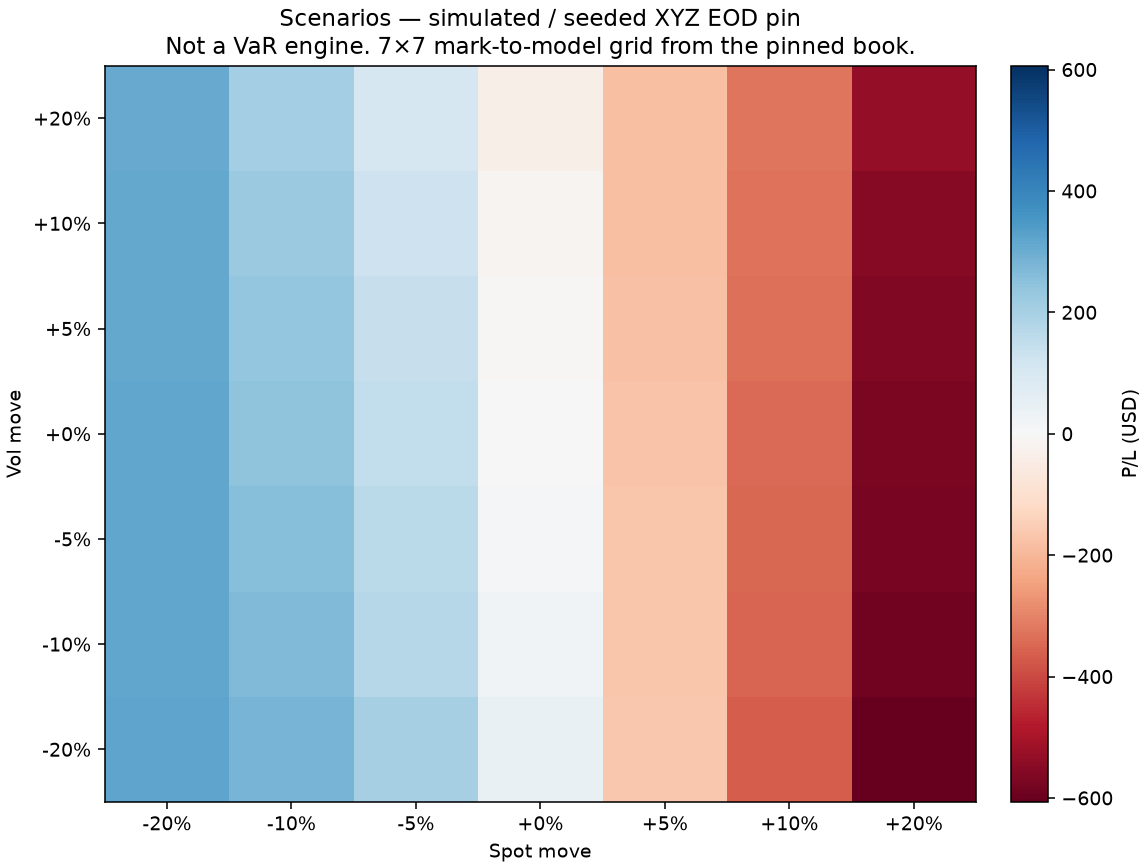
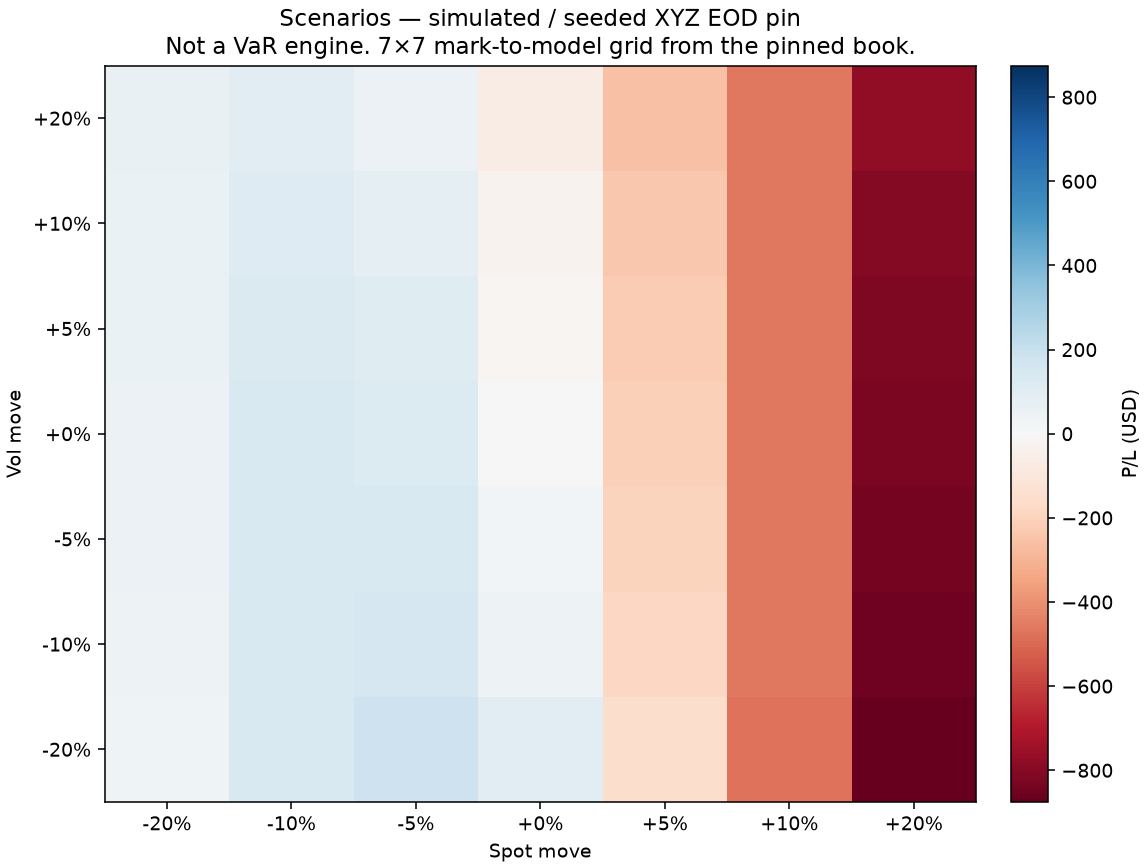
Grow the seeded demo to a 25-day multi-leg book
The demo was a five-day, two-leg call spread, so the seeded TWR path
and Streamlit screenshots reflected a single opening mark. It is now a
twenty-five-day book: the short 100/110 call vertical plus a long
95/105/115 call butterfly (five legs). simulate/demo.py needed no
change -- it reads n_days and legs from the fixture -- so this is a
fixture and downstream update only.

The seeded TWR (0.06% / -0.14% drawdown, no recovery in window) is
re-pinned in the CLI test and the README table; the Streamlit ledger
and scenarios screenshots are regenerated from the new demo. Lifecycle
events (expire, assignment) stay out -- that is Phase 2.

diff --git a/tests/test_cli_twr.py b/tests/test_cli_twr.py
@@ -33,9 +33,9 @@ def test_twr_cli_exits_zero_on_demo(tmp_path: Path) -> None:
     assert "trailing-12" in result.output
     # Pin the README-published seeded numbers so the demo output cannot drift silently.
     all_row = next(line for line in result.output.splitlines() if line.startswith("all"))
-    assert "0.12%" in all_row
-    assert "-0.02%" in all_row
-    assert all_row.rstrip().endswith("1")  # ttr_days
+    assert "0.06%" in all_row
+    assert "-0.14%" in all_row
+    assert all_row.rstrip().endswith("—")  # ttr_days: drawdown did not recover in window
 
 
 def test_twr_cli_exits_one_on_missing_account_column(tmp_path: Path) -> None:

diff --git a/tests/test_web.py b/tests/test_web.py
@@ -63,9 +63,10 @@ def test_eod_pins_and_book_from_demo_positions() -> None:
     assert pins
     assert pins[-1].endswith("-eod")
     book = book_from_positions(positions, pins[-1])
-    assert len(book.positions) == 2
+    n_legs = len(load_demo_spec(DEMO_FIXTURE).legs)
+    assert len(book.positions) == n_legs
     table = position_table(positions, pins[-1])
-    assert len(table) == 2
+    assert len(table) == n_legs
     grid, frame = scenario_grid_frame(book)
     assert frame.shape == (7, 7)
     assert grid.cell(0.0, 0.0) == pytest.approx(0.0, abs=1.0)

diff --git a/README.md b/README.md
@@ -41,16 +41,16 @@ uv run optledger web --data data
 
 `demo-build` is idempotent on `fixtures/demo.json` (seed 72, ticker `XYZ`). `dq` exits 0 on that demo and 1 on `fixtures/broken_join.json` (after writing it to Parquet). `ledger-recon` exits 0 on the demo and on `fixtures/ledger_expire_worthless.json` / `fixtures/ledger_assignment.json`, and 1 on `fixtures/ledger_qty_break.json`. Output under `data/` is gitignored. Snapshot families, pins, ledger events, and recon are in [Data contract](#data-contract).
 
-TWR is flow-adjusted from EOD NLV pins and `cash_deposit` events only (fees and fill premiums already sit in marked NLV). Windows are `all`, `ytd`, and `trailing-12` (365 calendar days). **YTD is the TWR of pins whose `as_of` falls in the last pin's calendar year**, not a January-1 NAV interpolation. The five-day demo is too short for those windows to differ. Every demo number is **simulated / seeded** and is not live performance.
+TWR is flow-adjusted from EOD NLV pins and `cash_deposit` events only (fees and fill premiums already sit in marked NLV). Windows are `all`, `ytd`, and `trailing-12` (365 calendar days). **YTD is the TWR of pins whose `as_of` falls in the last pin's calendar year**, not a January-1 NAV interpolation. The twenty-five-day demo is too short for those windows to differ. Every demo number is **simulated / seeded** and is not live performance.
 
 Seeded `optledger twr --data data` after `demo-build` (seed 72):
 
 ```
 simulated / seeded
 window               twr     max_dd   ttr_days
-all                0.12%     -0.02%          1
-ytd                0.12%     -0.02%          1
-trailing-12        0.12%     -0.02%          1
+all                0.06%     -0.14%          —
+ytd                0.06%     -0.14%          —
+trailing-12        0.06%     -0.14%          —
 ```
 
 Optional extras:

diff --git a/CHANGELOG.md b/CHANGELOG.md
@@ -16,6 +16,10 @@ CRR raised on any low-but-nonzero volatility, because the risk-neutral probabili
 
 The fail-closed read paths (DQ, recon, TWR, web) treat unreadable Parquet — corrupt bytes, a missing column, a permission error — as a reportable break instead of a traceback; the pure-layer import fence now forbids `pandas`, `numpy`, and the demo package, not just the product layers; and the README's seeded TWR numbers are pinned by a test so the published output cannot drift silently.
 
+The European BS cross-check against vollib (to 1e-8) used to skip on every CI run because the `ref` extra was never installed, so the strongest pricing invariant was a local-only claim. CI now installs it and the cross-check runs; `ledger-recon`'s three break codes (qty, cash, nlv) are each proven through the command's exit code, not only in-memory.
+
+The seeded demo grew from a five-day, two-leg call spread to a twenty-five-day book with a short vertical plus a long call butterfly, so the TWR / drawdown path and the Streamlit screenshots reflect a multi-leg book reconciled across many pins rather than a single opening mark. Lifecycle events (expire, assignment) stay out — that is Phase 2.
+
 ## 0.1.0 — 2026-08-13
 
 Shipped P0–P7 as a narrow book-operations stack, then set the GitHub repo public.
